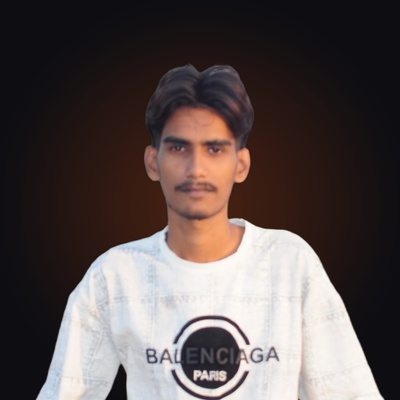
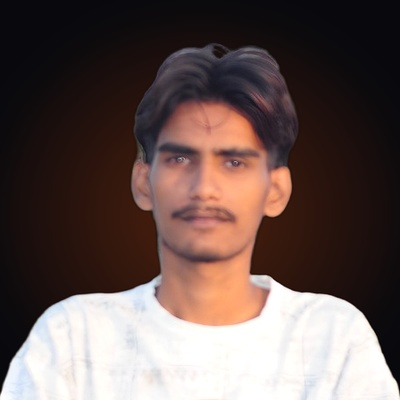
Replace hero portrait with clear, bottom-cropped studio cutout

diff --git a/index.html b/index.html
@@ -128,7 +128,7 @@
             <div class="glow-ring"></div>
             <div class="portrait-card">
               <div class="card-inner">
-                <img src="assets/images/lalit_hero.jpg" alt="Lalit Mangal - Video Editor" class="portrait-img" loading="eager">
+                <img src="assets/images/lalit_avatar.jpg" alt="Lalit Mangal - Video Editor" class="portrait-img" loading="eager">
               </div>
             </div>
           </div>
